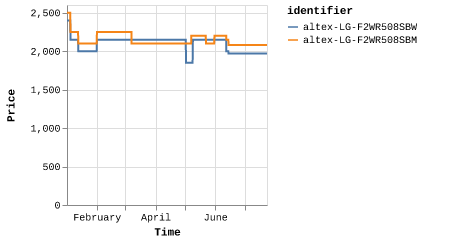
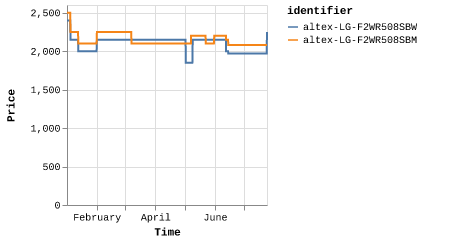
Latest scraping spalat: Wed Jul 24 04:39:41 UTC 2024

diff --git a/scrapes/spalat/altex-LG-F2WR508SBW.md b/scrapes/spalat/altex-LG-F2WR508SBW.md
@@ -1,3 +1,3 @@
-1969
+2249
 
 [Source](https://altex.ro/masina-de-spalat-rufe-frontala-slim-lg-f2wr508sbw-steam-8-kg-1200rpm-clasa-a-alb/cpd/MSFF2WR508SBW/)
